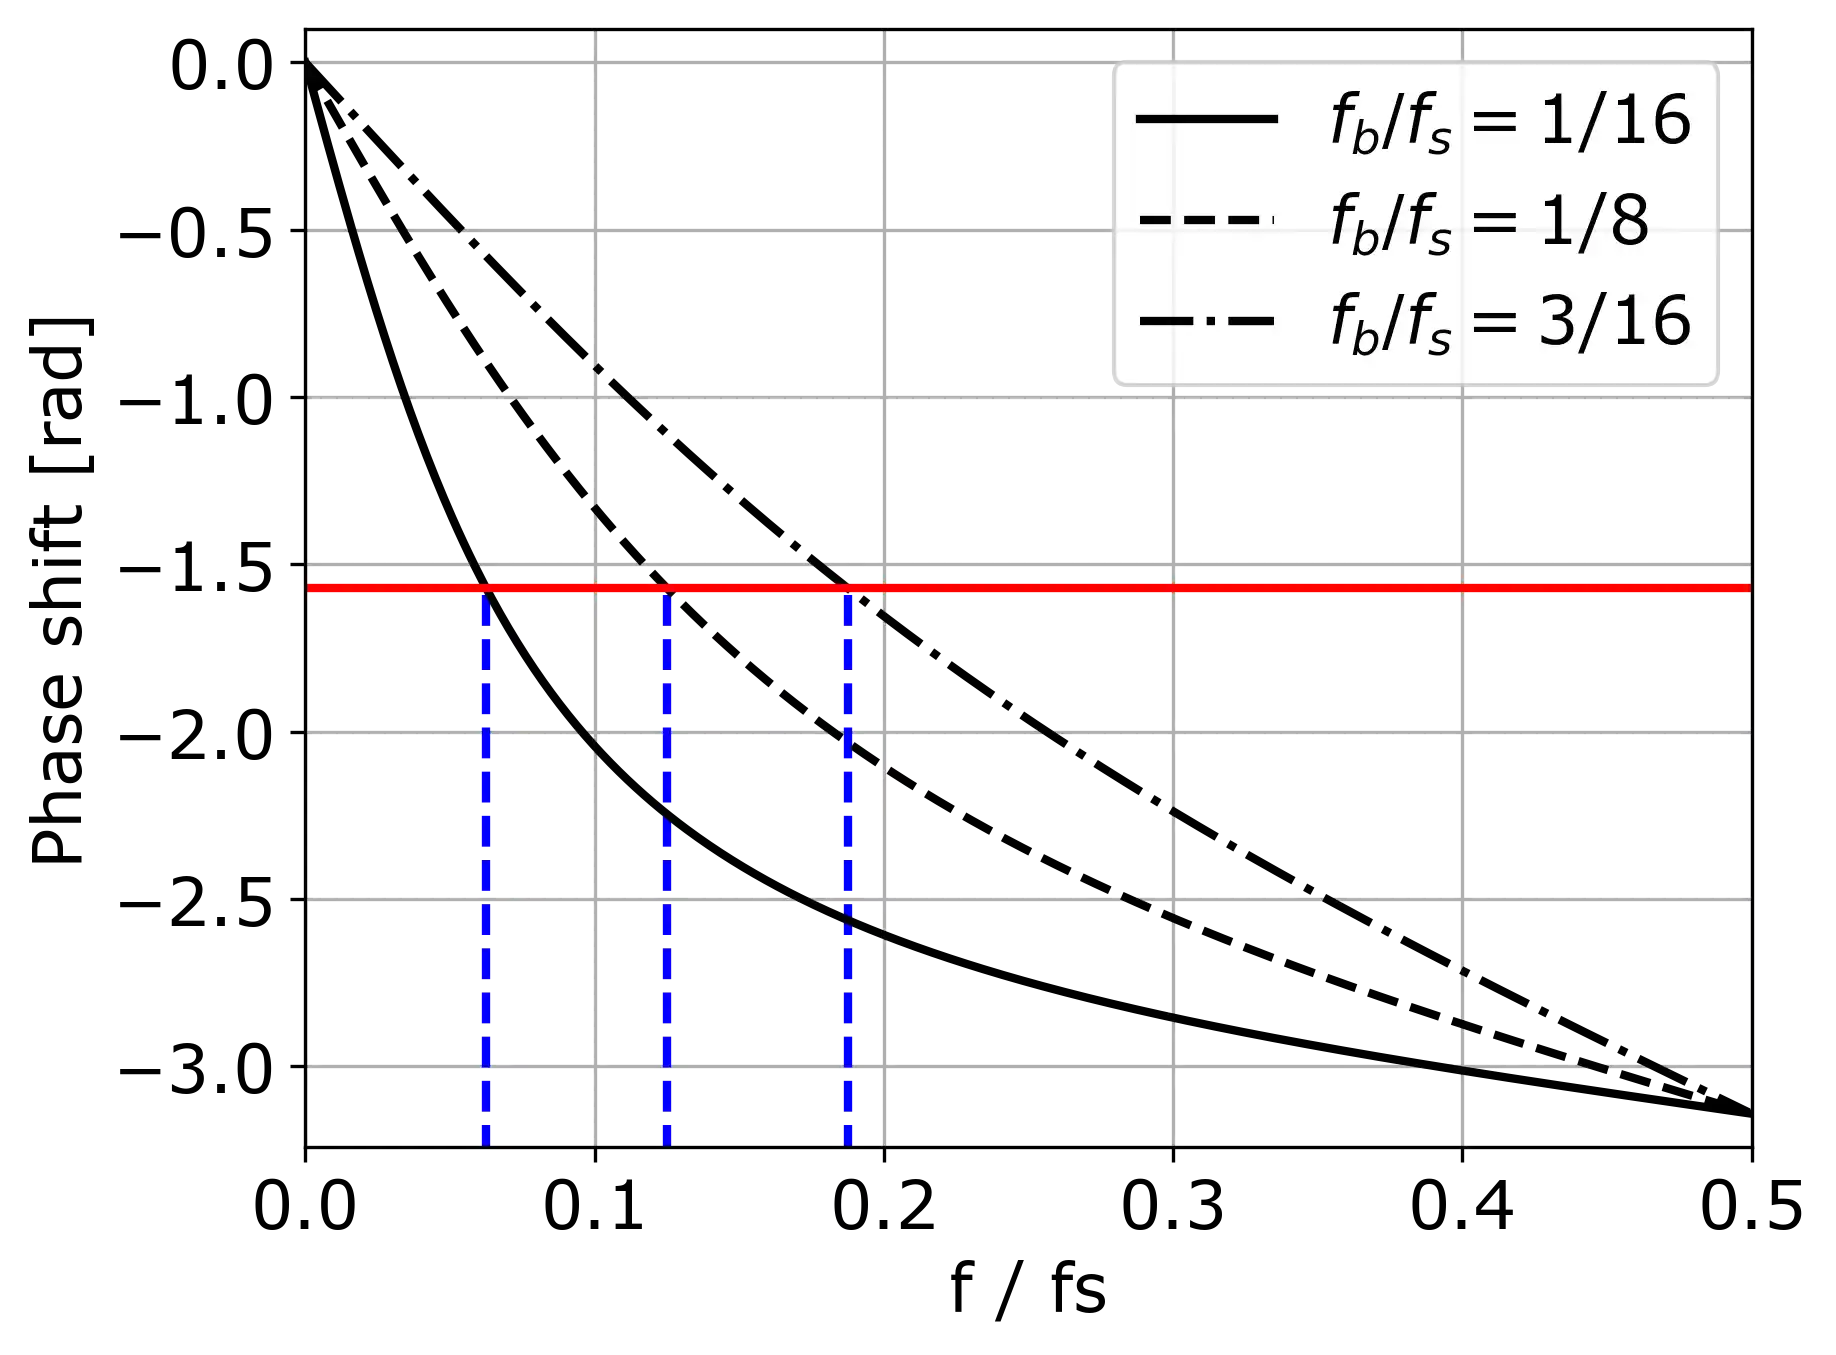
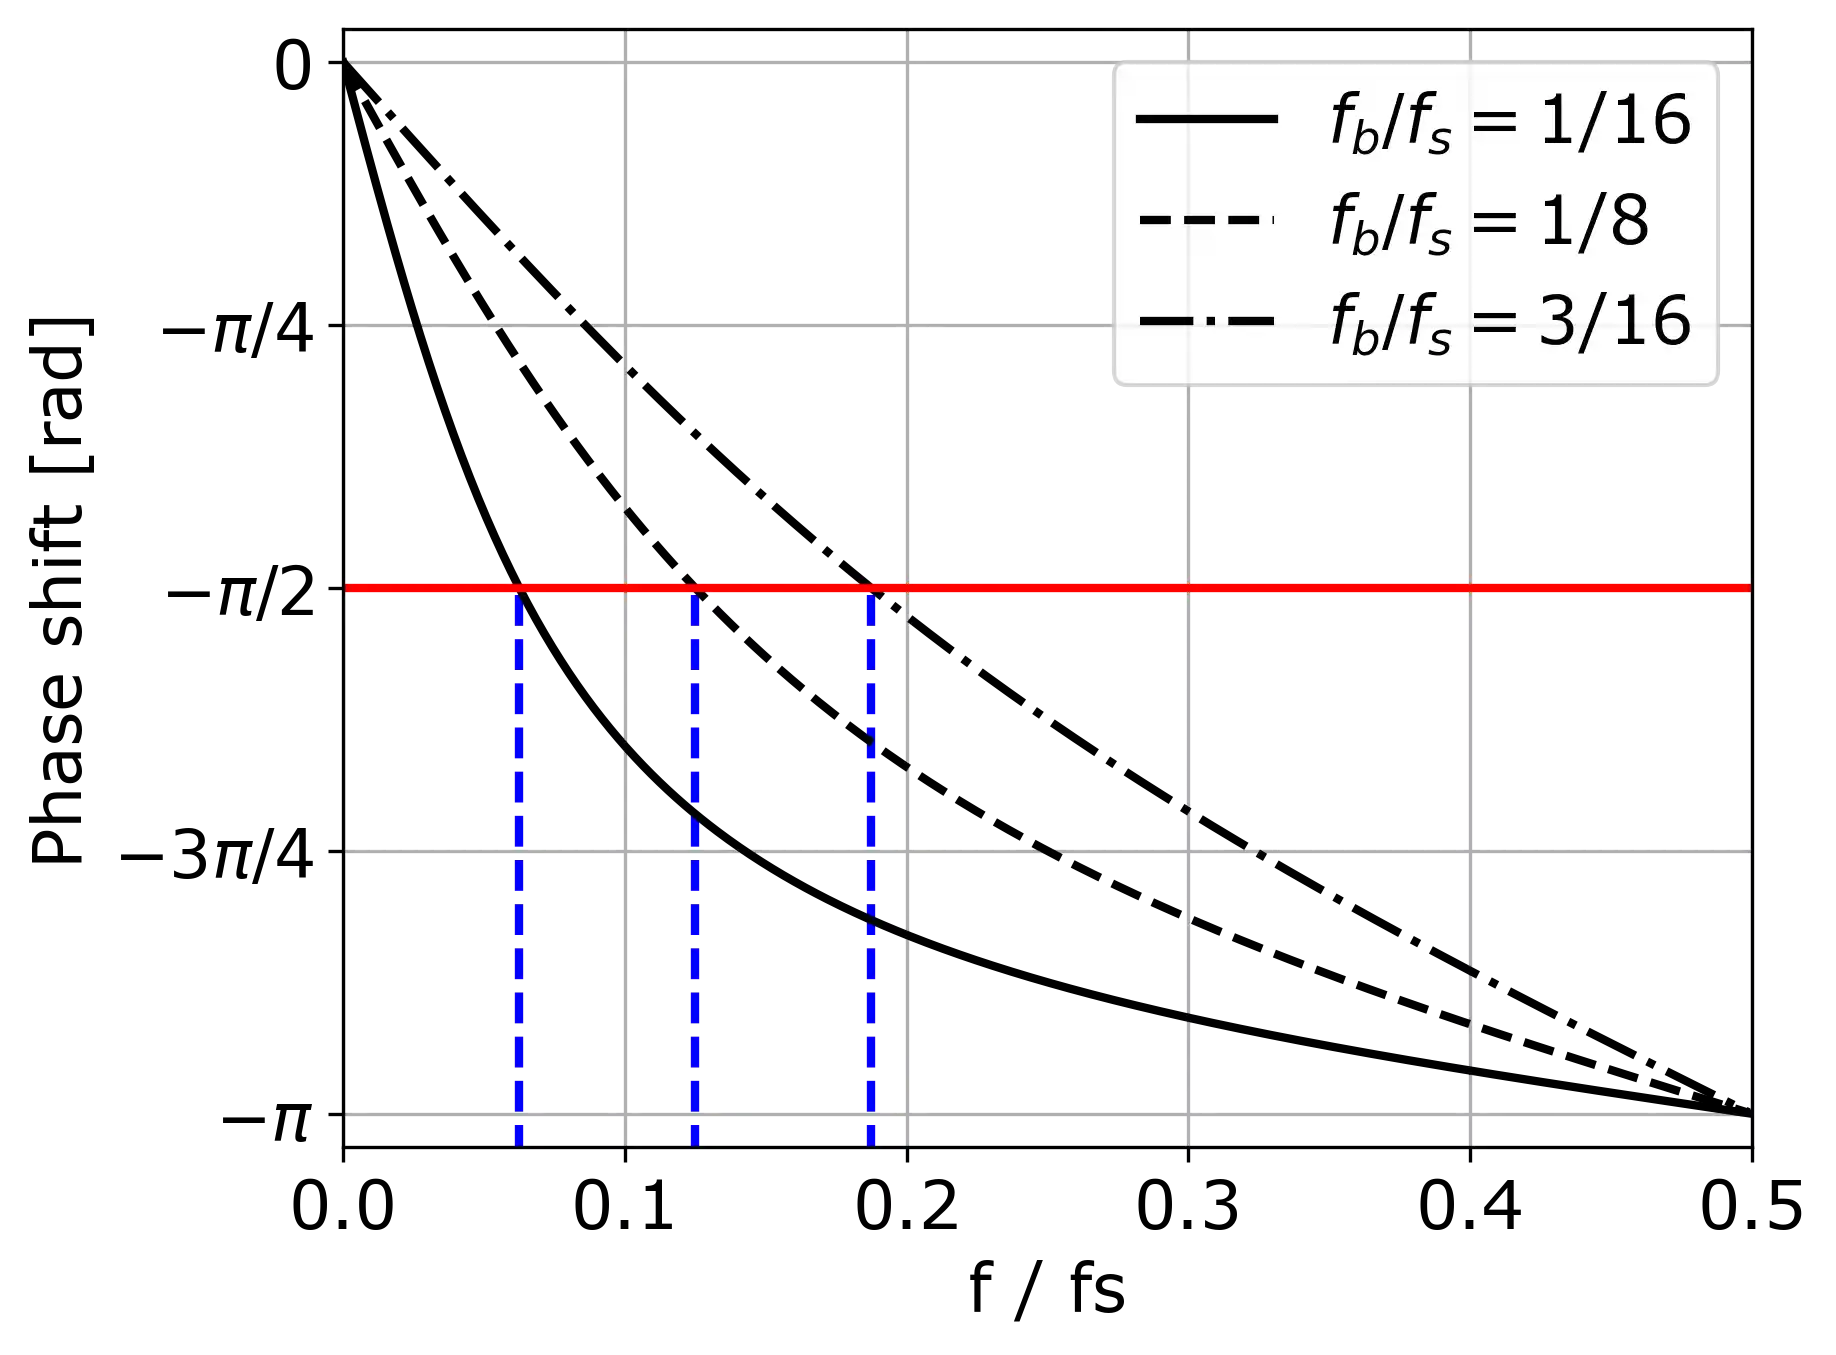
Updated the phase responses yticks.

diff --git a/_py/posts/fx/2021-10-22-allpass-filter/second_order_allpass_phase_response.py b/_py/posts/fx/2021-10-22-allpass-filter/second_order_allpass_phase_response.py
@@ -38,6 +38,7 @@ def plot_phase_response(break_frequencies, bandwidths, title, legend):
     plt.ylim([-2 * np.pi - 0.1, 0.1])
     plt.xlabel('f / fs')
     plt.axhline(y=-np.pi, color='r')
+    plt.yticks([0, -np.pi/2, -np.pi, -3 * np.pi/2, - 2 * np.pi], ['0', '$-\pi/2$', '$-\pi$', '$-3\pi/2$', '$-2\pi$'])
     plt.savefig(output_dir / f'{title}.png', **plot_dict)
 
 

diff --git a/_py/posts/fx/2021-10-22-allpass-filter/first_order_allpass_phase_response.py b/_py/posts/fx/2021-10-22-allpass-filter/first_order_allpass_phase_response.py
@@ -44,5 +44,6 @@ if __name__ == '__main__':
     plt.xlim([0, 0.5])
     plt.ylim([-np.pi - 0.1, 0.1])
     plt.xlabel('f / fs')
+    plt.yticks([0, -np.pi/4, -np.pi/2, -3 * np.pi/4, -np.pi], ['0', '$-\pi/4$', '$-\pi/2$', '$-3\pi/4$', '$-\pi$'])
     plt.axhline(y=-np.pi/2, color='r')
     plt.savefig(output_dir / f'first_order_allpass_phase_response.png', **plot_dict)

diff --git a/_posts/fx/2021-10-22-allpass-filter.md b/_posts/fx/2021-10-22-allpass-filter.md
@@ -201,7 +201,7 @@ Note how $BW$ is coupled with $c$ but not with $d$ and $f_\text{b}$ is coupled w
 
 #### Phase Response
 
-Phase responses of second-order allpass filters for different break frequencies $f_\text{b}$ look as follows:
+Phase response of the second-order allpass filter with different break frequencies $f_\text{b}$ looks as follows:
 
 ![]({{ page.images | absolute_url | append: "/second_order_allpass_phase_response.webp" }}){: width="80%" alt="Phase response of the second-order allpass filter with constant bandwidth."}
 _Figure {% increment figureId20211022 %}. Phase response of a second-order allpass filter for different break frequencies frequencies $f_\text{b}$ and bandwidth $BW / f_s = 0.022$._
